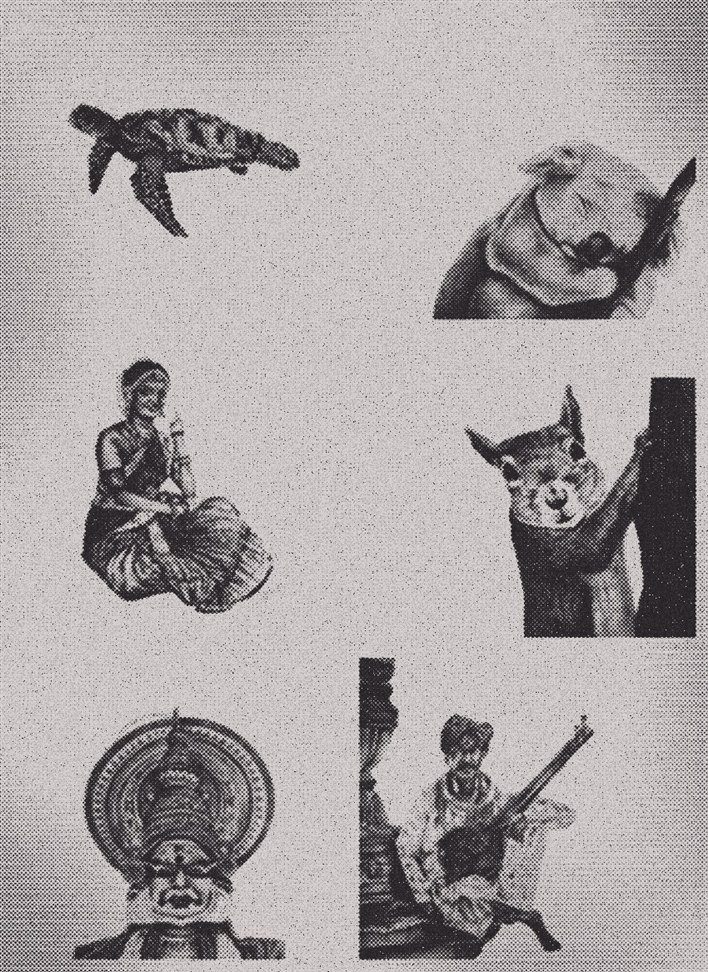
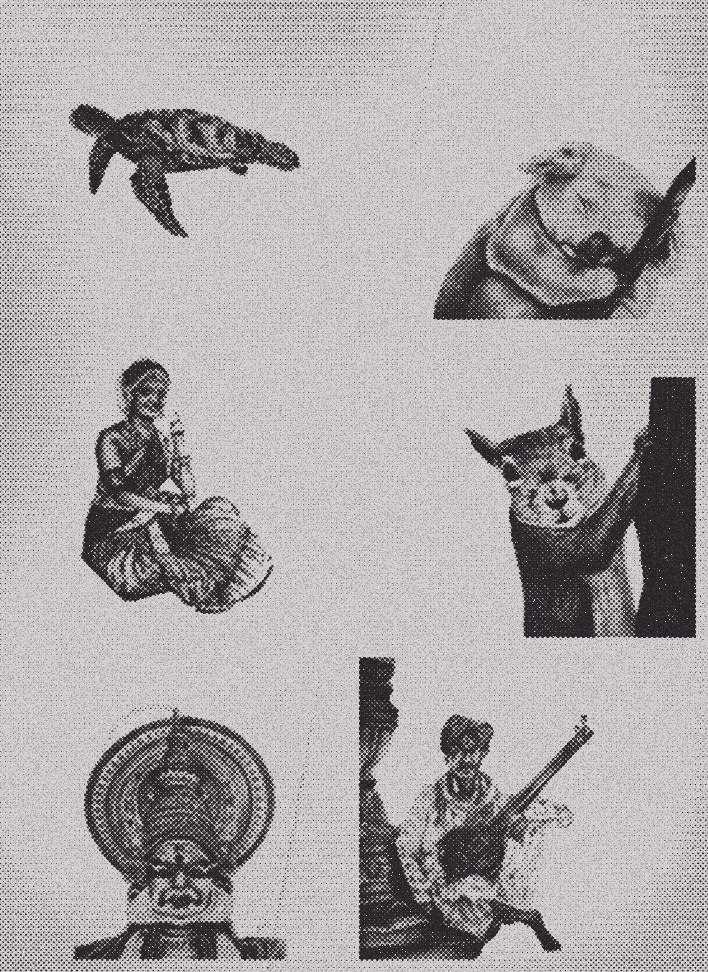
About: sketches without black specks, coarser photocopy texture; main-page figure walks in faster

diff --git a/index.html b/index.html
@@ -944,7 +944,7 @@
             <h2 style="left: 40px; top: 30px; transform: rotate(-2deg)">pen &amp; ink</h2>
             <!-- the pen portraits (moved here from the first spread): bigger, the clean print with only a light photocopy feel -->
             <figure class="abCopy" style="left: 120px; top: 110px; transform: rotate(-3deg); filter: none">
-              <div class="tear"><img src="assets/about/pen-copy2.jpg?v=5" alt="Pen portraits: a turtle, a koala, a dancer, a squirrel, a Kathakali face and a warkari" width="500" height="687"></div>
+              <div class="tear"><img src="assets/about/pen-copy2.jpg?v=6" alt="Pen portraits: a turtle, a koala, a dancer, a squirrel, a Kathakali face and a warkari" width="500" height="687"></div>
             </figure>
             <div class="abNote" style="left: 150px; top: 830px; width: 460px; transform: rotate(-1deg); text-align: center">pen &amp; ink —<br>a turtle, a sleepy koala &amp; a few faces</div>
           </div>
@@ -1824,10 +1824,10 @@
     }
     const walkIn = gsap.timeline({ paused: true, onUpdate: figFrame })
       // (a brisker walk than the intro figure: ~6.3 steps a second)
-      .fromTo(F, { x: X0, stride: 1, arm: 0, bubble: 0 }, { x: HX, duration: 1.4, ease: 'none' }, 0)
-      .to(F, { stride: 0, duration: 0.3, ease: 'sine.inOut' }, 1.1)
-      .to(F, { arm: 1, duration: 0.45, ease: 'sine.inOut' }, 1.5)
-      .to(F, { bubble: 1, duration: 0.55, ease: 'none' }, 2.0);
+      .fromTo(F, { x: X0, stride: 1, arm: 0, bubble: 0 }, { x: HX, duration: 1.1, ease: 'none' }, 0)
+      .to(F, { stride: 0, duration: 0.25, ease: 'sine.inOut' }, 0.86)
+      .to(F, { arm: 1, duration: 0.4, ease: 'sine.inOut' }, 1.2)
+      .to(F, { bubble: 1, duration: 0.5, ease: 'none' }, 1.65);
     // windows wider than 16:9 leave a margin beside the 1920 stage: the figure keeps to the window's real left edge
     const fig = $('heroFig');
     const hugLeft = () => {
